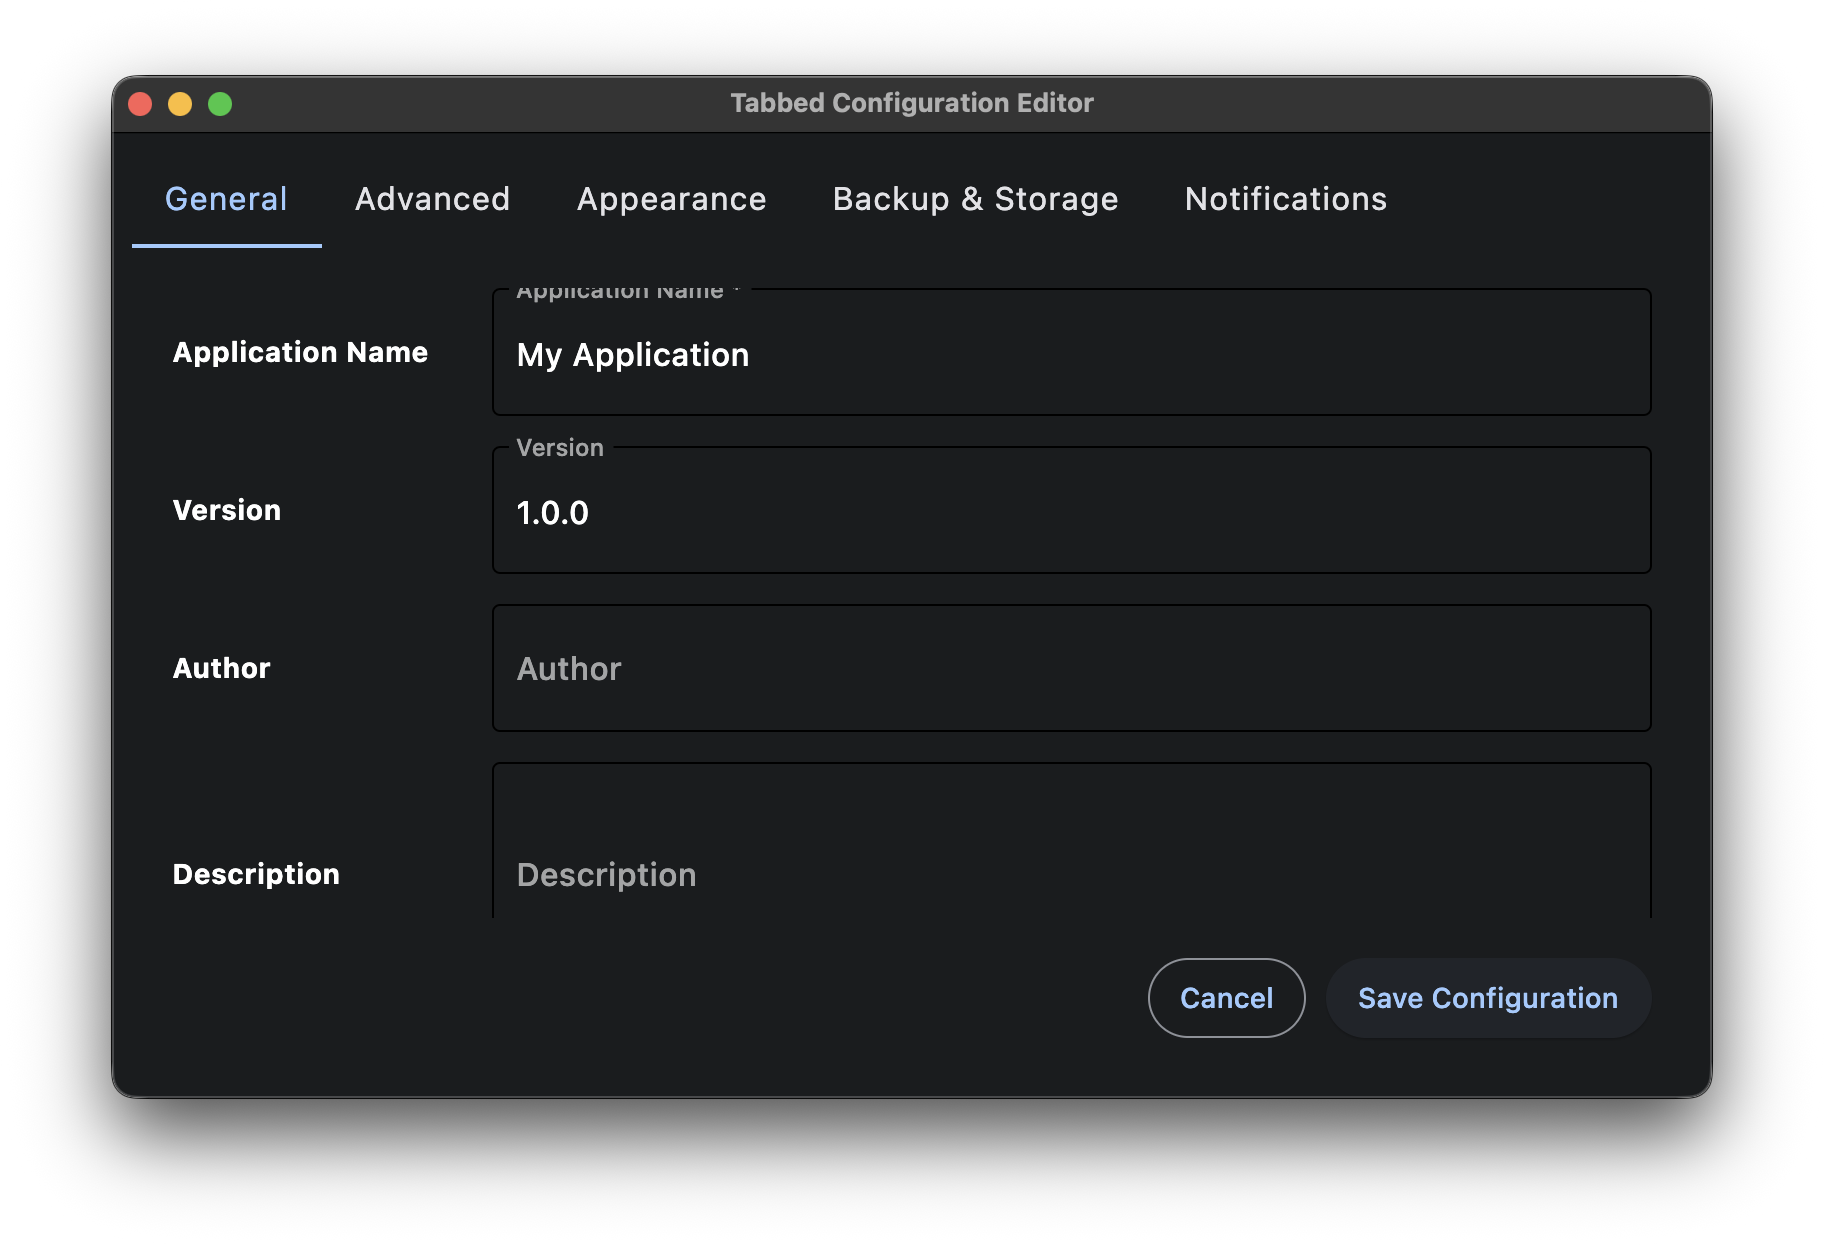
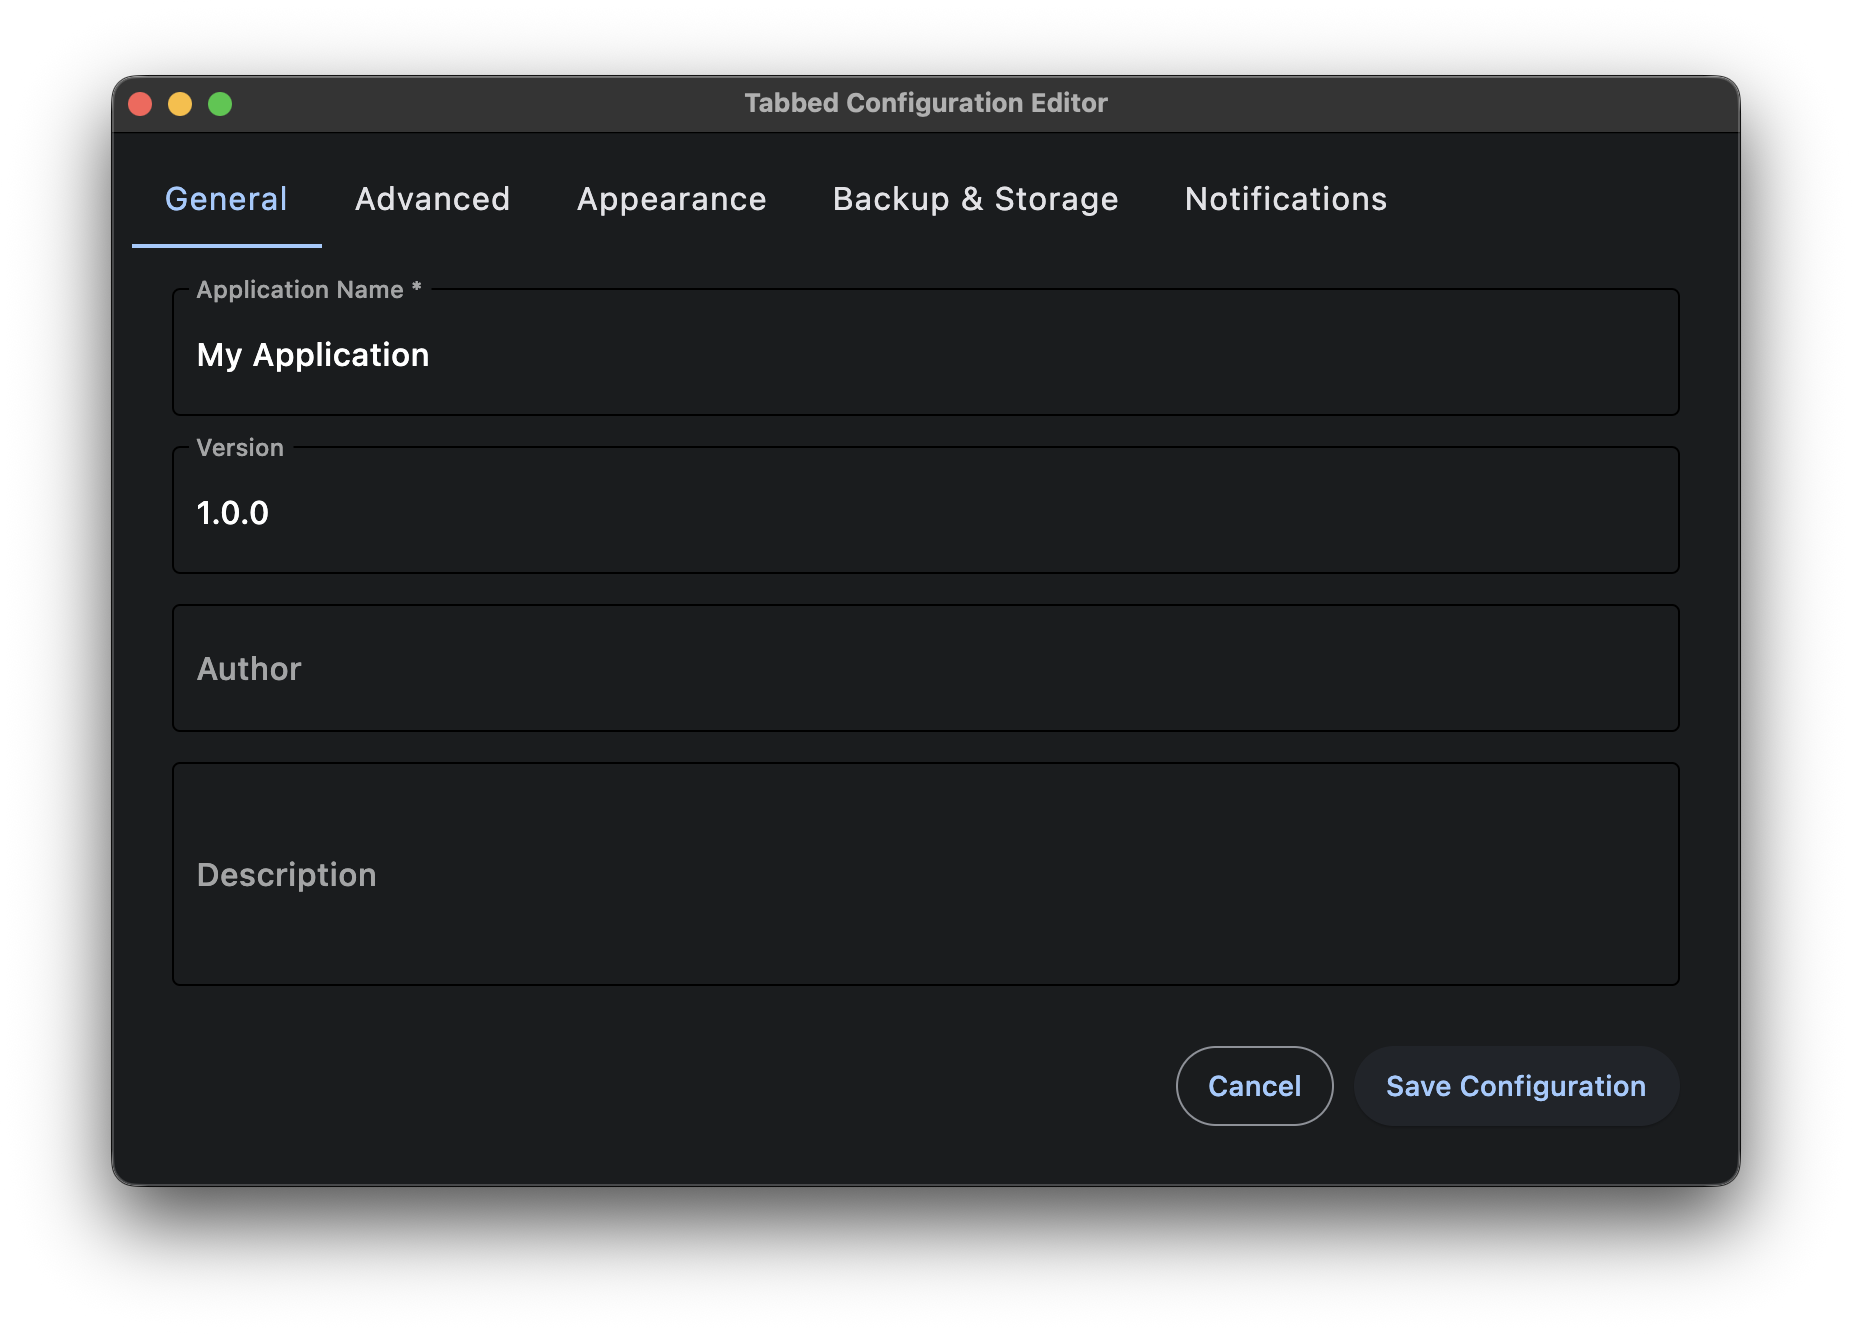
rmv unnecessary labels for flet widgets

diff --git a/vibegui/flet/flet_gui_builder.py b/vibegui/flet/flet_gui_builder.py
@@ -167,9 +167,11 @@ class FletGuiBuilder(CallbackManagerMixin, ValidationMixin, DataPersistenceMixin
             # Grid layout: 2-column responsive grid
             controls = []
             for field_config in fields:
+                # Widgets already have built-in labels
+                widget = self.widget_factory.create_widget(field_config)
+                
                 if field_config.type == "checkbox":
                     # Checkbox spans both columns
-                    widget = self.widget_factory.create_widget(field_config)
                     controls.append(
                         ft.Container(
                             content=widget,
@@ -178,22 +180,11 @@ class FletGuiBuilder(CallbackManagerMixin, ValidationMixin, DataPersistenceMixin
                         )
                     )
                 else:
-                    # Label in first column
-                    if field_config.label:
-                        controls.append(
-                            ft.Container(
-                                content=ft.Text(field_config.label, weight=ft.FontWeight.BOLD),
-                                col={"xs": 12, "sm": 4},  # Full width on mobile, 1/3 on desktop
-                                padding=5
-                            )
-                        )
-
-                    # Widget in second column
-                    widget = self.widget_factory.create_widget(field_config)
+                    # Widget in responsive column
                     controls.append(
                         ft.Container(
                             content=widget,
-                            col={"xs": 12, "sm": 8},  # Full width on mobile, 2/3 on desktop
+                            col={"xs": 12, "sm": 6},  # Full width on mobile, half on desktop
                             padding=5
                         )
                     )
@@ -206,32 +197,12 @@ class FletGuiBuilder(CallbackManagerMixin, ValidationMixin, DataPersistenceMixin
             )
 
         elif layout_type == "form":
-            # Form layout: similar to grid but optimized for forms
+            # Form layout: vertical layout with widgets that have built-in labels
             controls = []
             for field_config in fields:
-                # Create a row for each field (label and widget)
-                row_controls = []
-
-                if field_config.type == "checkbox":
-                    # Checkbox includes its label
-                    widget = self.widget_factory.create_widget(field_config)
-                    row_controls.append(ft.Container(content=widget, expand=True))
-                else:
-                    # Label
-                    if field_config.label:
-                        row_controls.append(
-                            ft.Container(
-                                content=ft.Text(field_config.label, weight=ft.FontWeight.BOLD),
-                                width=150,  # Fixed label width
-                                padding=ft.padding.only(right=10)
-                            )
-                        )
-
-                    # Widget
-                    widget = self.widget_factory.create_widget(field_config)
-                    row_controls.append(ft.Container(content=widget, expand=True))
-
-                controls.append(ft.Row(row_controls, spacing=10))
+                # Widgets already have built-in labels
+                widget = self.widget_factory.create_widget(field_config)
+                controls.append(widget)
 
             return ft.Column(controls, spacing=15, scroll=ft.ScrollMode.AUTO, expand=True)
 
